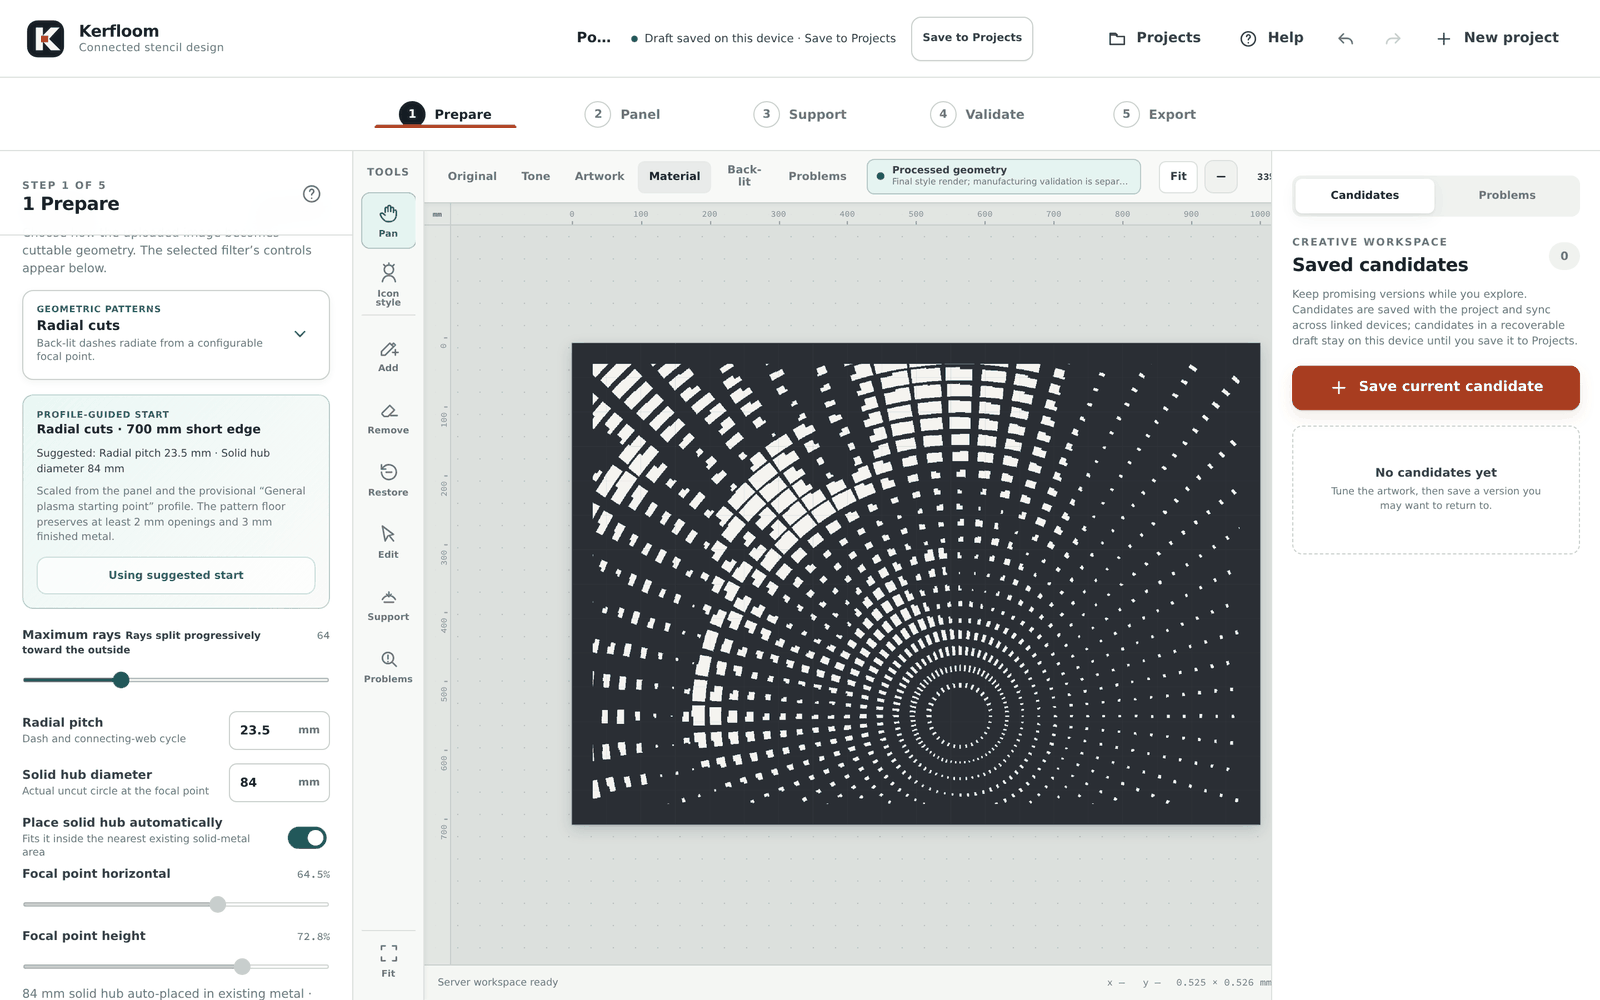
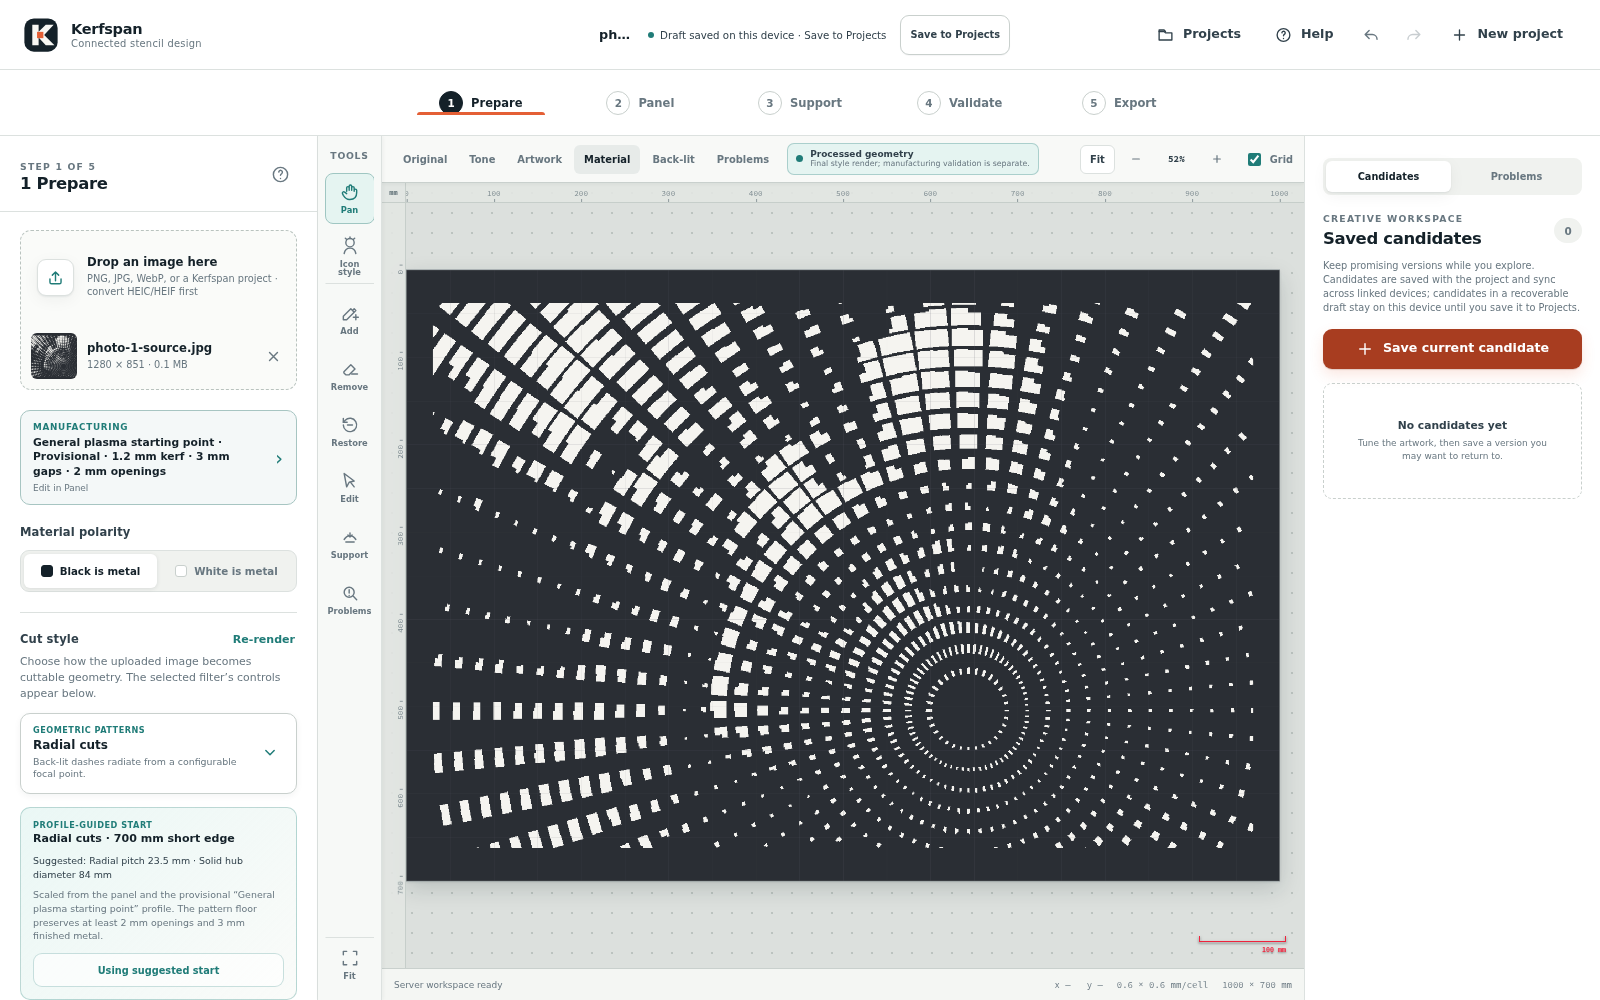
Refresh Kerfspan screenshots and portfolio

diff --git a/docs/portfolio/README.md b/docs/portfolio/README.md
@@ -1,0 +1,20 @@
+# Kerfspan finished-panel gallery
+
+Clean, full-resolution panel renders generated by the current Kerfspan application from a consented portrait. The source photograph is not included or shown. Material previews use charcoal for retained metal and white for openings; Back-lit previews show those openings illuminated.
+
+These images demonstrate visual treatments rather than certifying cut readiness. A real project must still be validated against its manufacturing profile before CAM export.
+
+| | | |
+|---|---|---|
+| ![Line art](01-line-art.png) | ![Poster stencil](02-poster-stencil.png) | ![Icon stencil](03-icon-stencil.png) |
+| Line art | Poster stencil | Icon stencil |
+| ![Icon stencil back-lit](04-icon-stencil-backlit.png) | ![Graphic portrait](05-graphic-portrait.png) | ![Silhouette](06-silhouette.png) |
+| Icon stencil · Back-lit | Graphic portrait | Silhouette |
+| ![Negative-space linework](07-negative-space-linework.png) | ![Icon woodcut](08-icon-woodcut.png) | ![Flow engraving](09-flow-engraving.png) |
+| Negative-space linework | Icon / Woodcut | Flow engraving |
+| ![Contour bands](10-contour-bands.png) | ![Slats](11-slats.png) | ![Slats back-lit](12-slats-backlit.png) |
+| Contour bands | Slats | Slats · Back-lit |
+| ![Hatch](13-hatch.png) | ![Radial cuts](14-radial-cuts.png) | ![Variable dots](15-variable-dots.png) |
+| Hatch | Radial cuts | Variable dots |
+| ![Ornamental symmetry](16-ornamental-symmetry.png) | | |
+| Ornamental symmetry | | |

diff --git a/README.md b/README.md
@@ -23,6 +23,8 @@ Kerfspan is a fabrication aid, not a machine-safety certificate. **Ready for CAM
 
 More in [docs/screenshots](docs/screenshots/), including the [style library](docs/screenshots/01-style-library.png) and the editor [on a phone](docs/screenshots/12-phone-icon-stencil.png).
 
+For artwork without the editor interface, see the [finished-panel portfolio](docs/portfolio/), covering every Kerfspan cut style plus Material and Back-lit presentation variants.
+
 ## Quick start
 
 You need Docker with Compose, or Podman with `podman compose`, and about 3 GB
